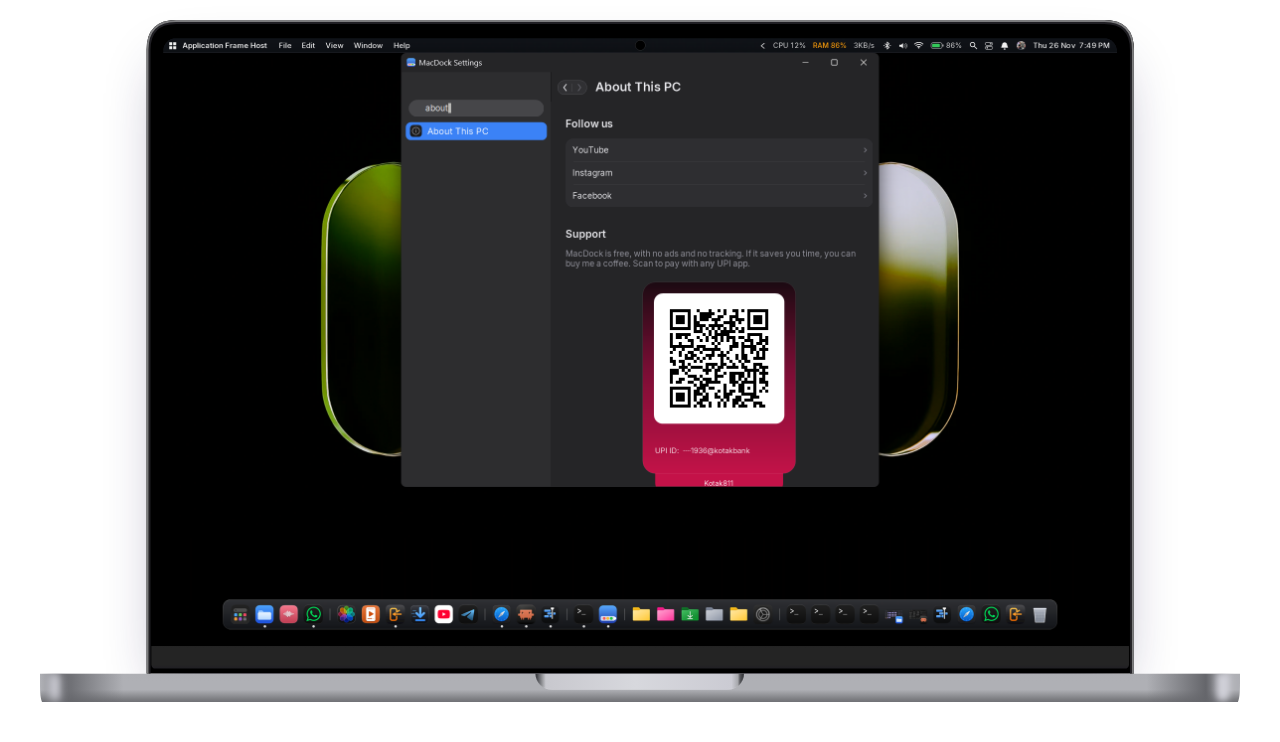
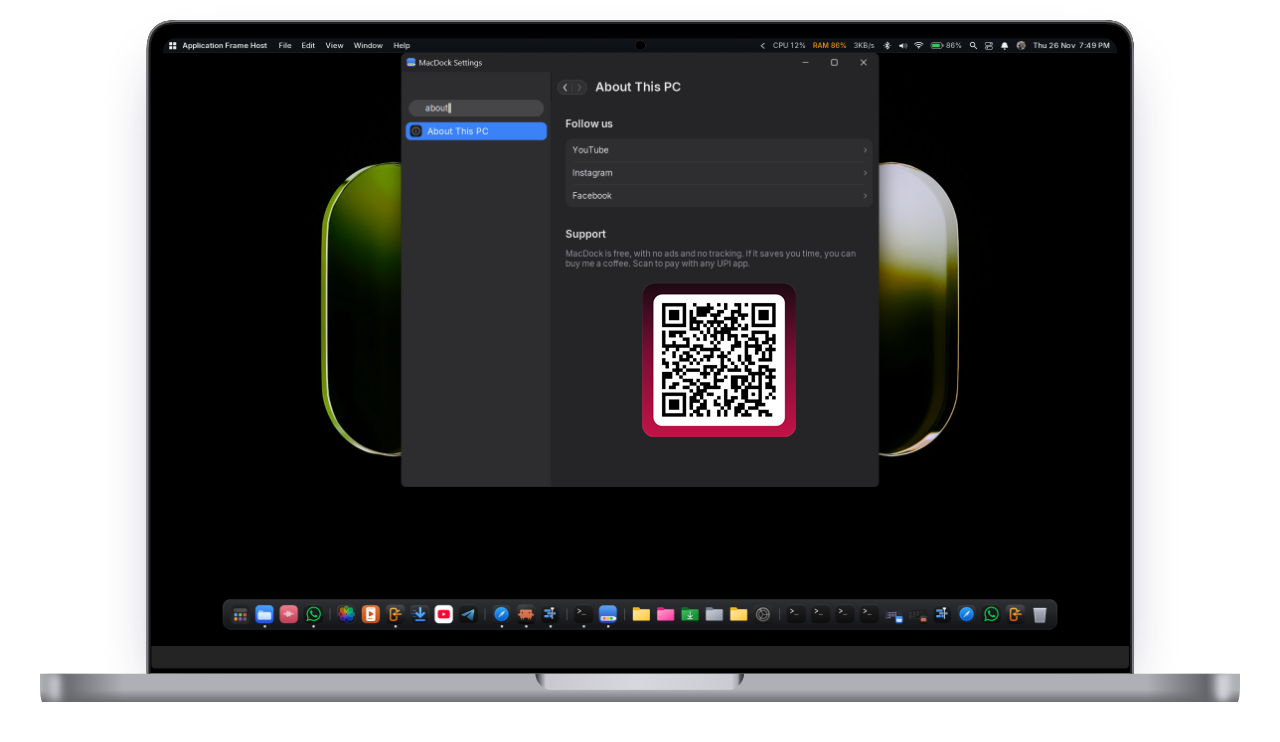
v3.1: donation card simplified to the QR only

Changed region(s): [[0.5, 0.403, 0.625, 0.6819]]

diff --git a/mac-dock/DonationCard.cs b/mac-dock/DonationCard.cs
@@ -1,5 +1,5 @@
-// The owner's donation card: UPI payment QR on white, masked UPI ID on a crimson card.
-// QR rows and ID are copied from the owner's existing card; never edit them by guesswork.
+// The owner's donation card: UPI payment QR on white, on a square crimson card.
+// QR rows are copied from the owner's existing card; never edit them by guesswork.
 
 using System;
 using System.Drawing;
@@ -10,10 +10,8 @@ namespace MacDock
 {
     static class DonationCard
     {
-        public const string UpiMasked = "\u00B7\u00B7\u00B7\u00B71936@kotakbank";
-        public const string Bank = "Kotak811";
         public const string Hint = "Scan to pay with any UPI app";
-        public const int Width = 246, Height = 338; // logical pixels: QR 210 + 18 each side, card 308 + footer tab 30
+        public const int Width = 246, Height = 246; // logical pixels: QR plate 210 + 18 each side
 
         static readonly string[] Qr =
         {
@@ -65,39 +63,27 @@ namespace MacDock
         {
             var state = g.Save();
             g.SmoothingMode = SmoothingMode.AntiAlias;
-            g.TextRenderingHint = System.Drawing.Text.TextRenderingHint.AntiAliasGridFit;
             Color crimson = Color.FromArgb(196, 18, 72), deep = Color.FromArgb(120, 14, 52), dark = Color.FromArgb(28, 10, 18);
-            float k = 72f / g.DpiY; // points per pixel
-            var card = new RectangleF(x, y, Width * u, 308 * u);
-            using (var center = new StringFormat { Alignment = StringAlignment.Center, LineAlignment = StringAlignment.Center, FormatFlags = StringFormatFlags.NoWrap })
-            using (var left = new StringFormat { FormatFlags = StringFormatFlags.NoWrap })
+            var card = new RectangleF(x, y, Width * u, Height * u);
+            using (var p = Round(card, 20 * u))
             {
-                var tab = new RectangleF(x + 20 * u, card.Bottom - 18 * u, card.Width - 40 * u, 48 * u);
-                using (var p = Round(tab, 14 * u)) using (var b = new SolidBrush(crimson)) g.FillPath(b, p);
-                g.DrawString(Bank, Typography.Text(11.5f * u * k), Brushes.White, new RectangleF(tab.X, card.Bottom + 6 * u, tab.Width, 22 * u), center);
-                using (var p = Round(card, 20 * u))
+                using (var b = new LinearGradientBrush(new RectangleF(card.X, card.Y - 1, card.Width, card.Height + 2), dark, crimson, LinearGradientMode.Vertical))
                 {
-                    using (var b = new LinearGradientBrush(new RectangleF(card.X, card.Y - 1, card.Width, card.Height + 2), dark, crimson, LinearGradientMode.Vertical))
-                    {
-                        b.InterpolationColors = new ColorBlend { Colors = new[] { dark, deep, crimson }, Positions = new[] { 0f, 0.45f, 1f } };
-                        g.FillPath(b, p);
-                    }
-                    using (var pen = new Pen(Color.FromArgb(28, 255, 255, 255), Math.Max(1f, u))) g.DrawPath(pen, p);
+                    b.InterpolationColors = new ColorBlend { Colors = new[] { dark, deep, crimson }, Positions = new[] { 0f, 0.45f, 1f } };
+                    g.FillPath(b, p);
                 }
-                var plate = new RectangleF(x + 18 * u, y + 18 * u, 210 * u, 210 * u);
-                using (var p = Round(plate, 14 * u)) g.FillPath(Brushes.White, p);
-                int n = Qr.Length;
-                int m = Math.Max(1, (int)(plate.Width / (n + 5)));
-                float ox = (float)Math.Round(plate.X + (plate.Width - m * n) / 2f), oy = (float)Math.Round(plate.Y + (plate.Height - m * n) / 2f);
-                g.SmoothingMode = SmoothingMode.None;
-                g.PixelOffsetMode = PixelOffsetMode.None;
-                for (int r = 0; r < n; r++)
-                    for (int c = 0; c < n; c++)
-                        if (Qr[r][c] == '#') g.FillRectangle(Brushes.Black, ox + c * m, oy + r * m, m, m);
-                float ty = plate.Bottom + 14 * u;
-                using (var b = new SolidBrush(Color.FromArgb(225, 255, 255, 255)))
-                    g.DrawString("UPI ID:  " + UpiMasked, Typography.Text(12f * u * k), b, x + 18 * u, ty + 8 * u, left);
+                using (var pen = new Pen(Color.FromArgb(28, 255, 255, 255), Math.Max(1f, u))) g.DrawPath(pen, p);
             }
+            var plate = new RectangleF(x + 18 * u, y + 18 * u, 210 * u, 210 * u);
+            using (var p = Round(plate, 14 * u)) g.FillPath(Brushes.White, p);
+            int n = Qr.Length;
+            int m = Math.Max(1, (int)(plate.Width / (n + 5)));
+            float ox = (float)Math.Round(plate.X + (plate.Width - m * n) / 2f), oy = (float)Math.Round(plate.Y + (plate.Height - m * n) / 2f);
+            g.SmoothingMode = SmoothingMode.None;
+            g.PixelOffsetMode = PixelOffsetMode.None;
+            for (int r = 0; r < n; r++)
+                for (int c = 0; c < n; c++)
+                    if (Qr[r][c] == '#') g.FillRectangle(Brushes.Black, ox + c * m, oy + r * m, m, m);
             g.Restore(state);
         }
     }

diff --git a/mac-dock/Onboarding.cs b/mac-dock/Onboarding.cs
@@ -31,7 +31,7 @@ namespace MacDock
         static OnboardingForm open;
 
         // Bump for every release build, also when the version number stays the same: the "What's new" page shows once per value.
-        const string ReleaseBuild = "20261127.2";
+        const string ReleaseBuild = "20261127.3";
         const string SeenKey = "whatsnew-seen";
 
         // Fresh install: the whole welcome tour. After an update: only the "What's new" page. Each at most once.
